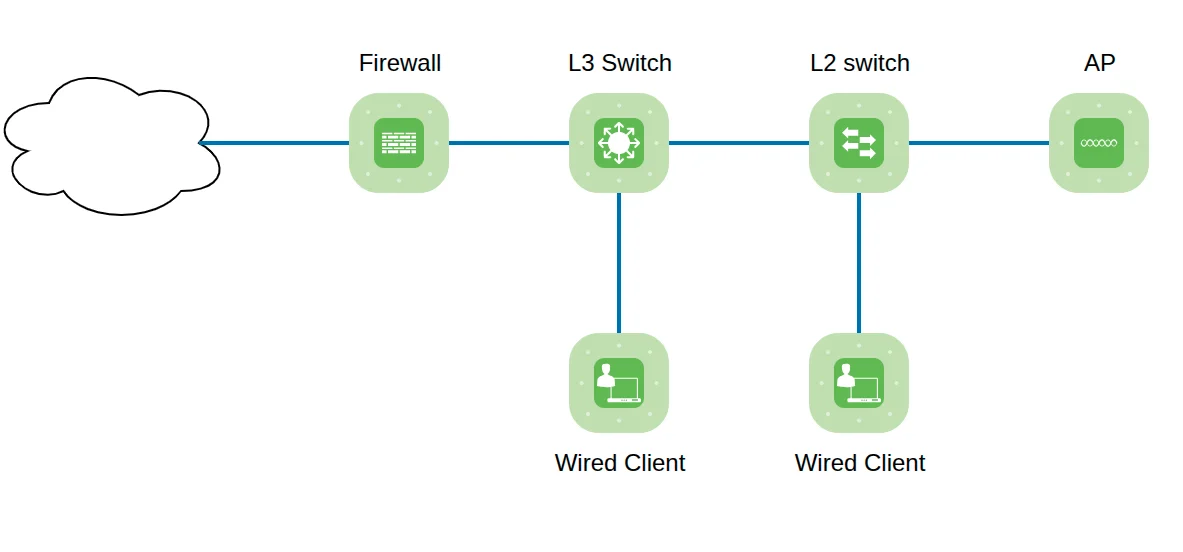
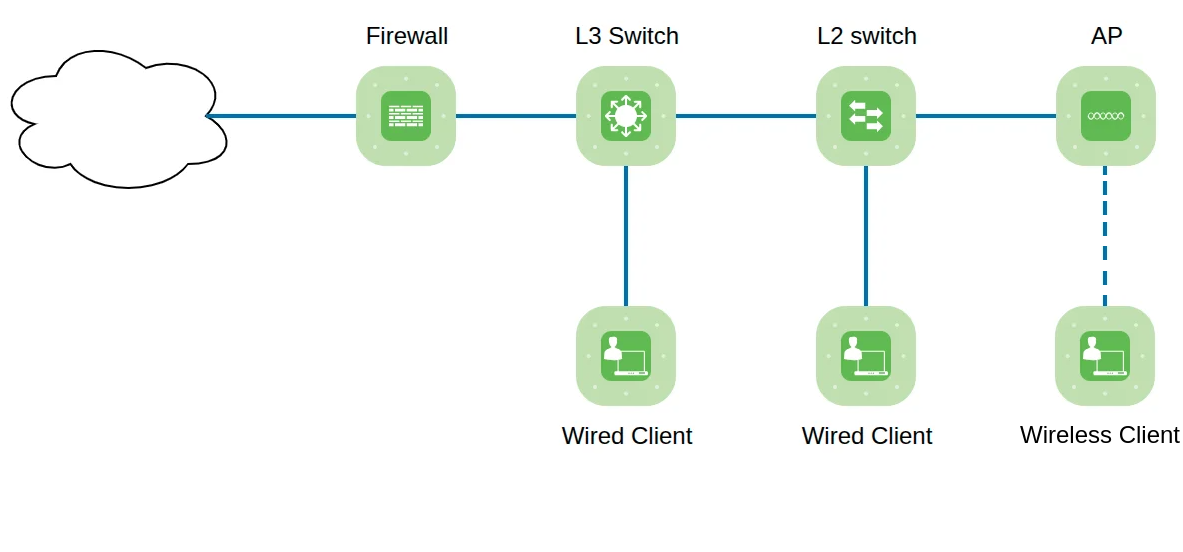
NIM-22188 Doc update for Meraki AP - Path lookup

diff --git a/docs/IP_Fabric_GUI/diagrams/vendors/meraki.md b/docs/IP_Fabric_GUI/diagrams/vendors/meraki.md
@@ -29,17 +29,26 @@ Currently supported path types include:
   - Limitation: For ARP data, only the client table is used, and no MAC table
     is available. As a result, traffic is flooded to all internal (LAN/VLAN)
     interfaces.
+- Access Points - running in bridge mode.
+
+### Examples
+
+#### Path Lookup Using Meraki Network Only
 
 ![Meraki Path Lookup 1](../../../images/diagrams/Meraki_1.webp)
 
+#### Path Lookup Across Multi-vendor Network
+
 ![Meraki Path Lookup 2](../../../images/diagrams/Meraki_2.webp)
 
- ## Example
+#### From LAN via Firewall
 
 ![From LAN via FW](../../../images/diagrams/Meraki-from_Lan.webp)
 
 The absence of a MAC table is illustrated here. The orange firewall floods
 traffic to all internal (LAN/VLAN) ports.
+
+#### To LAN via Firewall
 
 ![To LAN via FW](../../../images/diagrams/Meraki-to_Lan.webp)
 
